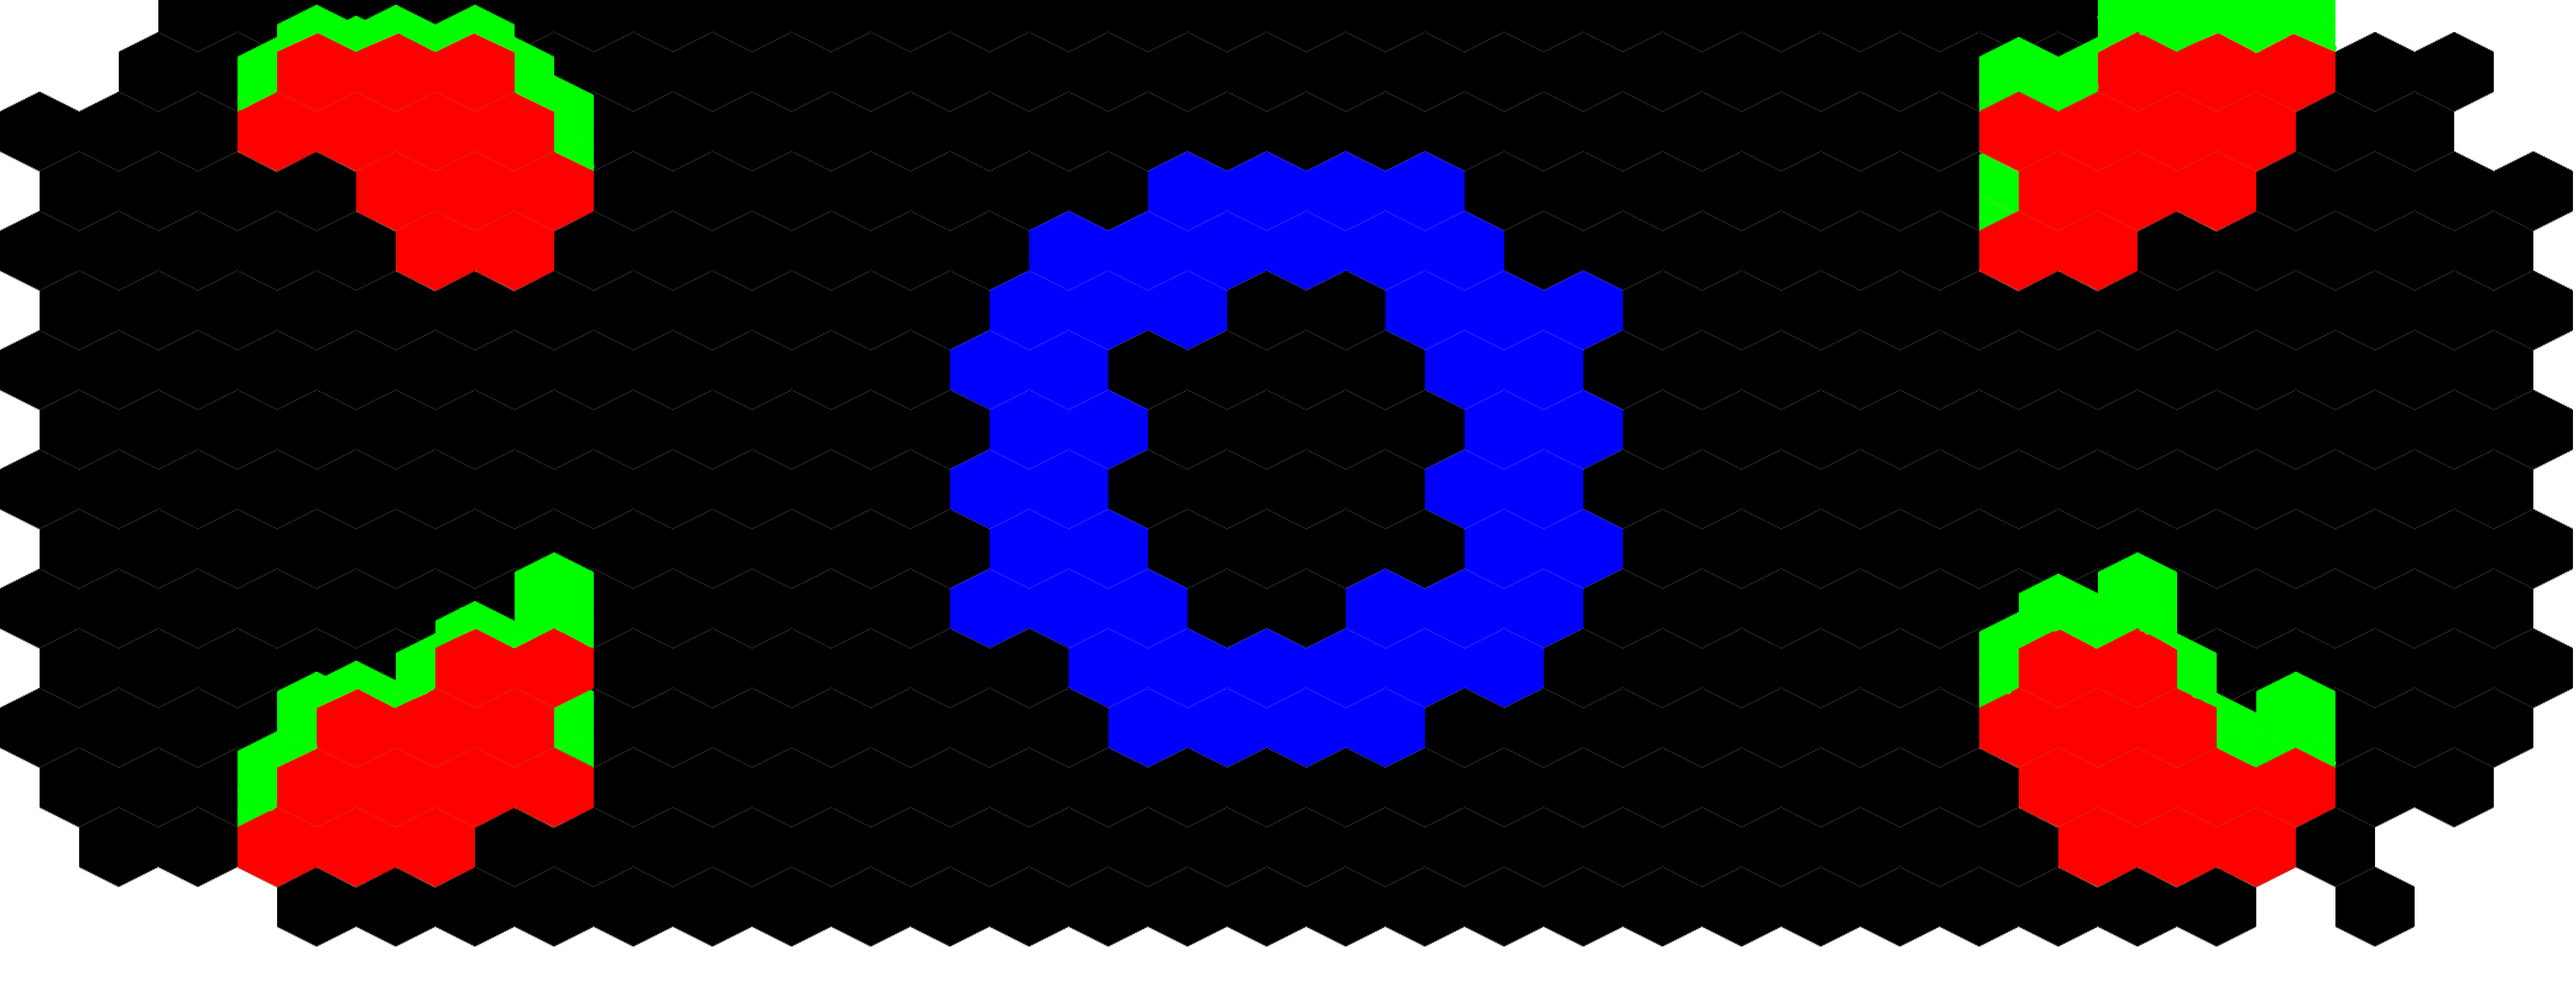
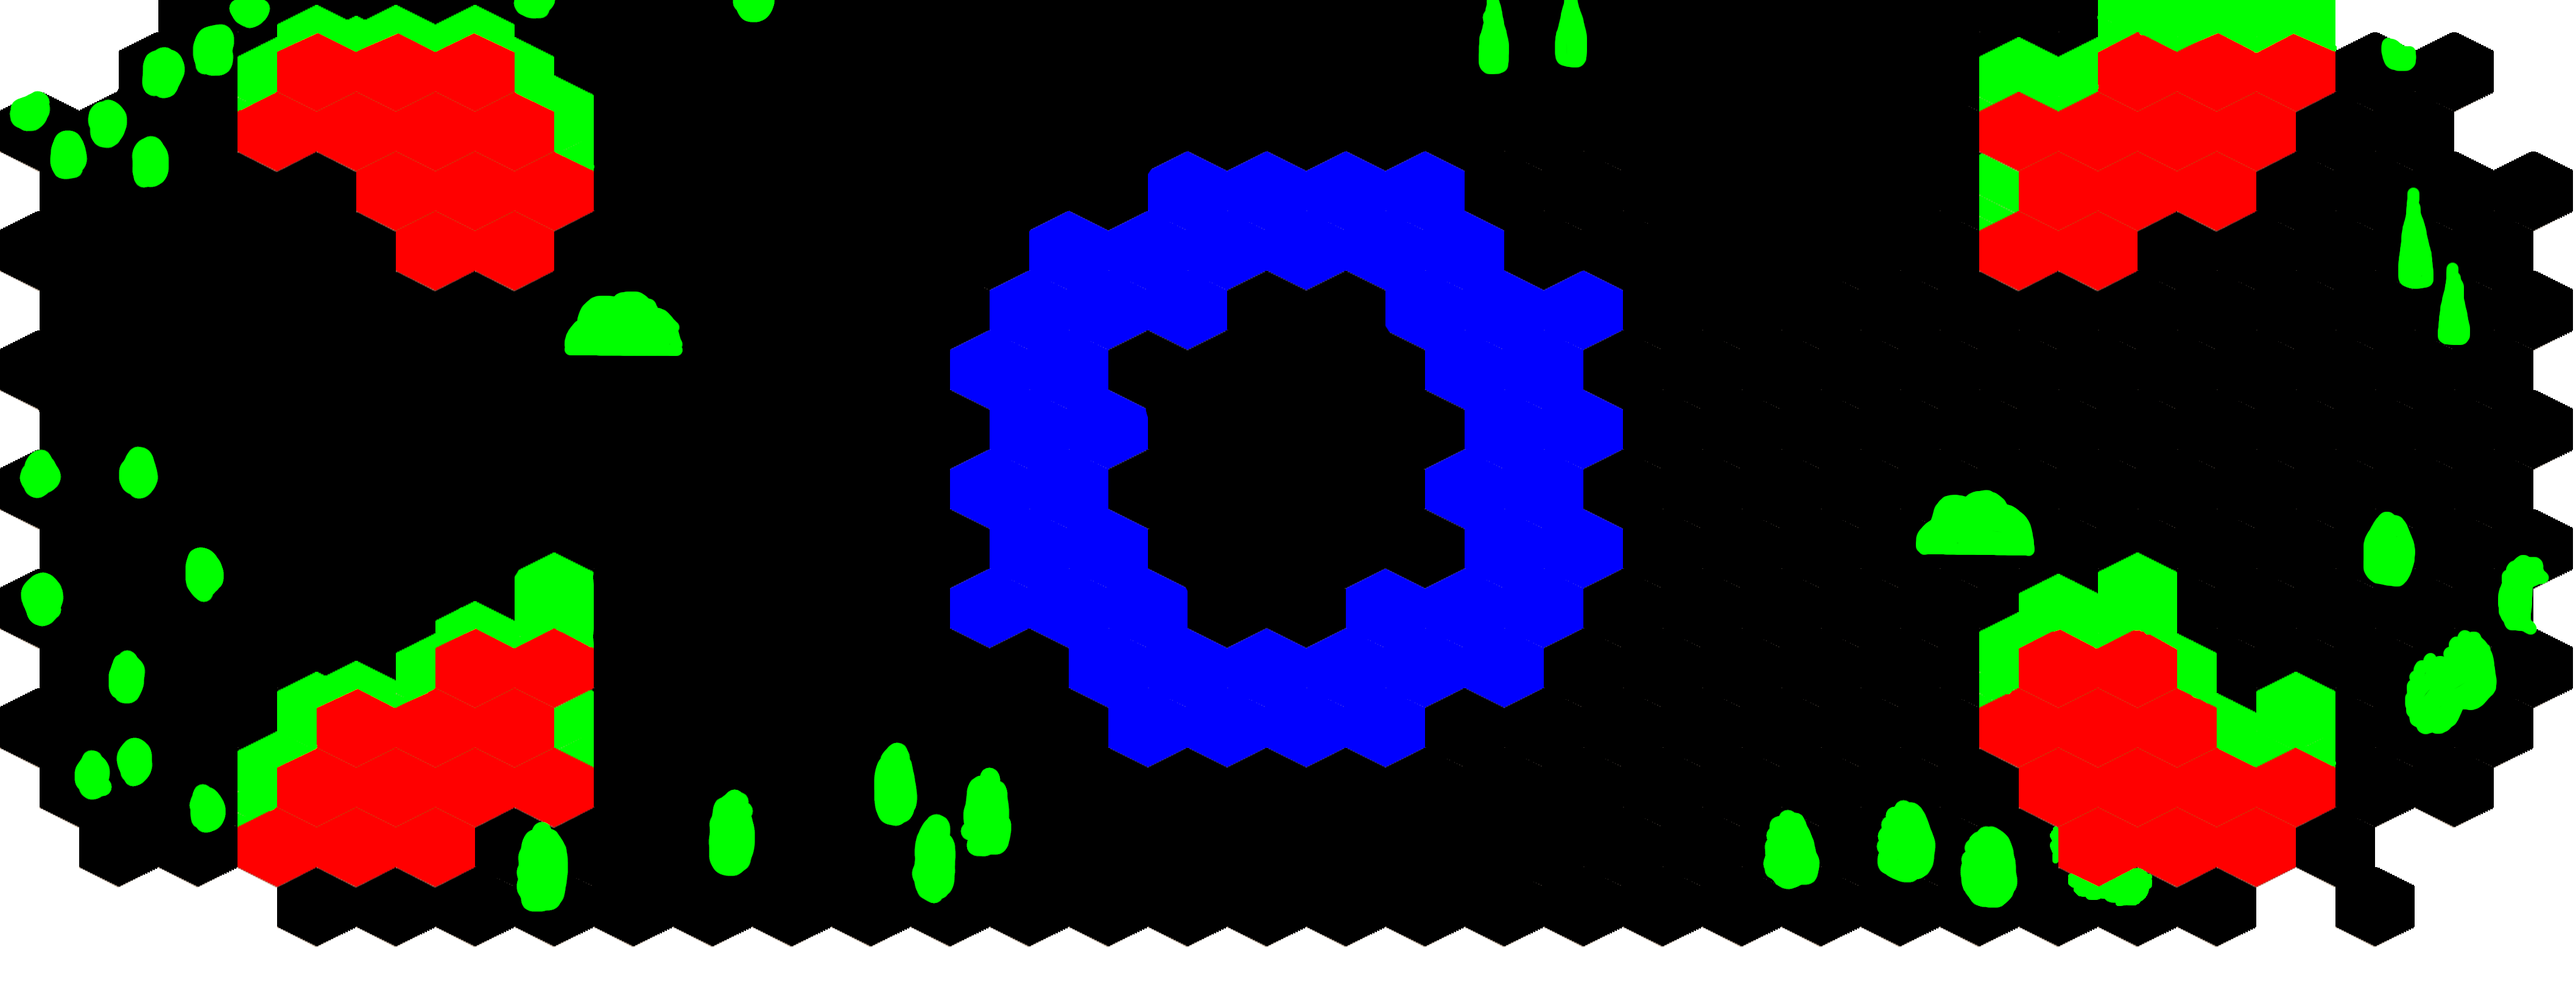
beta1.2

diff --git a/server/server.js b/server/server.js
@@ -24,6 +24,7 @@ spawnTowerList[3] = {x:4019,y:636,team:2};
 var bluescore = 0;
 var redscore = 0;
 
+var gameUpdateFunction;
 var gamestat = 1;         //遊戲狀態 0 尚未開始 1遊戲開始 2 遊戲結算等待重製
 var onlineCount = 0;      //遊戲人數
 var blueTeamCount = 0;    //藍隊人數
@@ -38,7 +39,7 @@ var skillindex = 0;       //系統紀錄SKILL列表長度用
 var effectindex = 0;      //系統紀錄EFFECT列表長度用
 var buildingindex = 0;      //系統紀錄building列表長度用
 var gametick = 0;         //遊戲時刻(每20MS加一)
-
+var gamestarting = false;
 //MP AND BP GET
 var beegen_count = {};
 beegen_count[1] = 0;
@@ -72,6 +73,11 @@ io.on('connection', (socket) => {
       try {
         oplist[socket.id] = false;
         onlineCount++;
+        if(onlineCount >= 4 && gamestarting == false){
+          gamestarting = true;
+          io.emit("msg", {message: '遊戲將在10秒後開始!',name: '世界之聲',});
+          setTimeout(function(){gameStart();},10000);
+        }
         logData['name'] = logData['name'].replace(/</g, "&lt;");
         logData['name'] = logData['name'].replace(/>/g, "&gt;");
         logData['name'] = logData['name'].replace(/"/g, "&quot;");
@@ -113,7 +119,10 @@ io.on('connection', (socket) => {
           if(gameStartingJoin){
             io.to(socket.id).emit("buildDataInt", buildinglist);
             io.to(socket.id).emit("playerDataUpdata", playerlist);
-            setTimeout(function(){io.to(socket.id).emit("gameStart");},500);
+            setTimeout(function(){
+              io.to(socket.id).emit("gameStart");
+              io.to(socket.id).emit("kdaDataGet", kdalist);//更新KDA版
+            },500);
             socket.join("GameRoom");
             io.to("GameRoom").emit("playerDataUpdata", playerlist);
           }else {
@@ -123,6 +132,7 @@ io.on('connection', (socket) => {
       } catch (e) {
         console.log('有些錯誤在login階段發生了!詳細訊息:'+e);
       }
+
     });
     /*遊戲開始前 加入紅藍隊伍*/
     socket.on("blueTeamJoin", () => {
@@ -606,6 +616,9 @@ function gameSystem() {
         io.to(id).emit("loseGame");
     }
     gamestat = 3;
+    setTimeout(function(){
+      gameRestart();
+    },15000);
   }else if(redscore >= winscore){
     for (let [id ,player] of Object.entries(playerlist)) {
       if(player['team'] == 2)
@@ -614,6 +627,9 @@ function gameSystem() {
         io.to(id).emit("loseGame");
     }
     gamestat = 3;
+    setTimeout(function(){
+      gameRestart();
+    },15000);
   }
   //佔領成功粒子特效
   for (var i = 1; i <= 4; i++) {
@@ -701,8 +717,8 @@ function gameSystem() {
   for (let [index ,build] of Object.entries(spawnTowerList)) {
     for (let [id ,player] of Object.entries(playerlist)) {
       if(player['team'] != build['team']){
-        if(colliderBoxCircle(player['x'],player['y'],64,128,build['x'],build['y'],600)){
-          shoot(build['x'],build['y'],player['x'],player['y'],build['team'],40);
+        if(colliderBoxCircle(player['x'],player['y'],64,128,build['x'],build['y'],700)){
+          shoot(build['x'],build['y'],player['x'],player['y'],build['team'],80);
         }
       }
     }
@@ -884,7 +900,7 @@ function commandTest(msg,id){
             break;
           case 'restart':
             if(oplist[id] == true){
-              io.emit("restartGame");
+              gameRestart();
             }else{
               io.to(id).emit("msg", {message: '你的權限無法使用該指令!',name: '世界之聲'});
             }
@@ -936,13 +952,68 @@ function shoot(bx,by,px,py,team,damage){
 }
 
 function gameStart(){
+  gamestarting = true;
   io.to("GameRoom").emit("playerCount",onlineCount);
   io.to("GameRoom").emit("gameStart");
   io.to("GameRoom").emit("kdaDataGet", kdalist);//更新KDA版
   gamestat = 2;
-  setInterval(gameUpdate,20);
+  gameUpdateFunction = setInterval(gameUpdate,20);
   console.log('遊戲開始');
 }//遊戲開始
+
+function gameRestart(){
+  io.to('GameRoom').emit("msg", {message: '世界將在1秒後重置!',name: '世界之聲',});
+  clearInterval(gameUpdateFunction);
+  //世界樹
+  gamestarting = false;
+  occupyTime = 0; // -5 = blue 5 = red
+  eoccupyTime = 0; // -5 = blue 5 = red
+  foccupyTime = {}; // -5 = blue 5 = red
+  foccupyTime[1] = 0; // -5 = blue 5 = red
+  foccupyTime[2] = 0; // -5 = blue 5 = red
+  foccupyTime[3] = 0; // -5 = blue 5 = red
+  foccupyTime[4] = 0; // -5 = blue 5 = red
+  foccupyTime[5] = 0; // -5 = blue 5 = red
+  foccupyTime[6] = 0; // -5 = blue 5 = red
+  foccupyTime[7] = 0; // -5 = blue 5 = red
+  foccupyTime[8] = 0; // -5 = blue 5 = red
+  spawnTowerList = {}; // -5 = blue 5 = red
+
+  bluescore = 0;
+  redscore = 0;
+
+  gamestat = 1;         //遊戲狀態 0 尚未開始 1遊戲開始 2 遊戲結算等待重製
+  onlineCount = 0;      //遊戲人數
+  blueTeamCount = 0;    //藍隊人數
+  redTeamCount = 0;     //紅隊人數
+  playerlist = {};      //玩家列表與詳細資料
+  kdalist = {};      //玩家擊殺死亡與助攻統計
+  oplist = {};
+  skillObject = {};     //技能物件列表與鄉系資料
+  effectlist = {};      //效果列表與詳細資料
+  buildinglist = {};      //建築列表與詳細資料
+  skillindex = 0;       //系統紀錄SKILL列表長度用
+  effectindex = 0;      //系統紀錄EFFECT列表長度用
+  buildingindex = 0;      //系統紀錄building列表長度用
+  gametick = 0;         //遊戲時刻(每20MS加一)
+
+  //MP AND BP GET
+  beegen_count = {};
+  beegen_count[1] = 0;
+  beegen_count[2] = 0;
+  bp1getTick = 0;
+  bp2getTick = 0;
+
+  flowergen_count = {};
+  flowergen_count[1] = 0;
+  flowergen_count[2] = 0;
+  mp1getTick = 0;
+  mp2getTick = 0;
+
+  setTimeout(function(){
+    io.emit("restartGame");
+  },1000);
+}
 
 app.get('/', (req, res) => {
     res.sendFile( __dirname + '/views/index.html');

diff --git a/server/views/scripts/newPlayer.js b/server/views/scripts/newPlayer.js
@@ -1,0 +1,94 @@
+
+function newPlayerTip() {
+  TipBG();
+  switch (newPlayerTipAnimation) {
+    case 0:
+      TipText('安安!歡迎來到DreeWar.IO\n輸入WSAD能進行前後左右移動!\n點擊右下next進入下一個新手教學');
+      break;
+    case 1:
+      TipText('非常好!請注意!!\n你無法直接穿透防禦型建築與山壁!');
+      break;
+    case 2:
+      TipText('滑鼠左鍵使用技能(注意左下角)');
+      break;
+    case 3:
+      TipText('技能會向你鼠標方向移動');
+      break;
+    case 4:
+      TipText('滾輪更改施放技能(注意左下角)');
+      break;
+    case 5:
+      TipText('你共會有四張卡牌\n使用後會隨機重新獲得一張牌');
+      break;
+    case 6:
+      TipText('目前有三種卡牌');
+      break;
+    case 7:
+      TipText('普通攻擊,技能牌組,建築牌組');
+      break;
+    case 8:
+      TipText('巧妙使用技能能使戰鬥中更具備優勢');
+      break;
+    case 9:
+      TipText('不過技能使用會消耗MP數值');
+      break;
+    case 10:
+      TipText('查看右下角你會看到你的[MP]\n那代表魔力剩餘\n每5秒才會回復一點請警慎使用');
+      break;
+    case 11:
+      TipText('建築牌組能強化我方增益\n加速MP與BP獲取');
+      break;
+    case 12:
+      TipText('不過建築使用會消耗BP數值');
+      break;
+    case 13:
+      TipText('查看右下角你會看到你的[BP]\n那代表魔力剩餘\n每15秒才會回復一點\n請警慎使用');
+      break;
+    case 14:
+      TipText('滑鼠右鍵能發布表情');
+      break;
+    case 15:
+      TipText('遊戲目標\n佔領位於地圖中央被河環繞的世界樹');
+      break;
+    case 16:
+      TipText('遊戲的目標是佔領世界樹\n佔領的一方能獲得每秒一分地加成\n先得到300分玩家得勝');
+      break;
+    case 17:
+      TipText('如果世界樹被敵方佔領\n你可以佔領世界樹旁的青蛙\n他能很快的攻擊佔領樹的敵方');
+      break;
+    case 18:
+      TipText('遊戲教學結束');
+      break;
+    default:
+  }
+}
+
+function TipBG(){
+  var temp_x = 10;
+  var temp_y = 80;
+  var img = document.getElementById('UIpanel');
+  ctx.drawImage(img,temp_x,temp_y,300,100);
+  var img = document.getElementById('wood_T');
+  ctx.drawImage(img,temp_x-4,temp_y-6,32,32);
+  var img = document.getElementById('wood_I');
+  ctx.drawImage(img,temp_x+28,temp_y-6,32,32);
+  var img = document.getElementById('wood_P');
+  ctx.drawImage(img,temp_x+60,temp_y-6,32,32);
+  var img = document.getElementById('UInext');
+  ctx.drawImage(img,temp_x+275,temp_y+86,51,28);
+  var img = document.getElementById('UIcross');
+  ctx.drawImage(img,temp_x+275,temp_y+6,18,18);
+}
+
+function TipText(msg) {
+    let tipmsg = msg.split("\n");
+    var temp_x = 22;
+    var temp_y = 122;
+    ctx.textAlign = "left";
+    ctx.textBaseline = "middle";
+    ctx.font = "18px Verdana";
+    ctx.fillStyle = "rgba(30,30,30,1)";
+    for (var i = 0; i < tipmsg.length; i++) {
+      ctx.fillText(tipmsg[i],temp_x,temp_y+18*i);
+    }
+}

diff --git a/server/views/scripts/Draw.js b/server/views/scripts/Draw.js
@@ -112,6 +112,9 @@ function draw() {
     emotionSelect();
   //Bossbar
   gameDisplay();
+  //新手教學
+  if(newPlayerTipAnimation < 19)
+    newPlayerTip();
   //人物list
   if(tabUse)
     tabInfoDisplay();
@@ -126,7 +129,7 @@ function draw() {
 
 function tabInfoDisplay() {
   try {
-    ctx.fillStyle = "rgba(0,0,0,180)";
+    ctx.fillStyle = "rgba(30,30,30,100)";
     ctx.fillRect(Window_width*0.1, Window_height*0.1, Window_width*0.8,Window_height*0.8)
     ctx.textAlign = "left";
     ctx.textBaseline = "middle";
@@ -693,16 +696,11 @@ function particleDisplay() {
           break;
         case 3:
           var img = document.getElementById('brickBrown');
-          var temp_mx = Math.sin(particle['x']) * particle['time']*0.1;
-          var temp_my = Math.sin(particle['y']) * particle['time']*0.1;
-          ctx.drawImage(img, particle['x'] - selfPlayer['x'] + (Window_width/2)-8+temp_mx,particle['y'] - selfPlayer['y'] + (Window_height/2)-8+temp_my,16,16);
-          temp_mx = Math.sin(particle['x'+0.6]) * particle['time']*0.1;
-          temp_my = Math.sin(particle['y'+0.6]) * particle['time']*0.1;
-          ctx.drawImage(img, particle['x'] - selfPlayer['x'] + (Window_width/2)-8+temp_mx,particle['y'] - selfPlayer['y'] + (Window_height/2)-8+temp_my,16,16);
-          temp_mx = Math.sin(particle['x'+1.2]) * particle['time']*0.1;
-          temp_my = Math.sin(particle['y'+1.2]) * particle['time']*0.1;
-          var img = document.getElementById('brickGrey');
-          ctx.drawImage(img, particle['x'] - selfPlayer['x'] + (Window_width/2)-8+temp_mx,particle['y'] - selfPlayer['y'] + (Window_height/2)-8+temp_my,16,16);
+          for (var i = 0; i < 10; i++) {
+            temp_mx = Math.sin(particle['x']+171.59*i) * particle['time']*0.12 + Math.random()*12;
+            temp_my = Math.sin(particle['y']+171.59*i) * particle['time']*0.12 + Math.random()*12;
+            ctx.drawImage(img, particle['x'] - selfPlayer['x'] + (Window_width/2)-8+temp_mx,particle['y'] - selfPlayer['y'] + (Window_height/2)-8+temp_my,16,16);
+          }
           break;
         case 4:
           var img = document.getElementById('hudPlayer_blue');

diff --git a/server/views/index.html b/server/views/index.html
@@ -359,11 +359,18 @@
     <img src="views/img/UI/wood_N.png" id="wood_3">
     <img src="views/img/UI/wood_E.png" id="wood_4">
     <img src="views/img/UI/wood_R.png" id="wood_5">
+    <img src="views/img/UI/wood_T.png" id="wood_T">
+    <img src="views/img/UI/wood_I.png" id="wood_I">
+    <img src="views/img/UI/wood_P.png" id="wood_P">
+
     <img src="views/img/UI/metal_L.png" id="metal_0">
     <img src="views/img/UI/metal_O.png" id="metal_1">
     <img src="views/img/UI/metal_S.png" id="metal_2">
     <img src="views/img/UI/metal_E.png" id="metal_3">
     <img src="views/img/UI/metal_R.png" id="metal_4">
+    <img src="views/img/UI/panel.png" id="UIpanel">
+    <img src="views/img/UI/next.png" id="UInext">
+    <img src="views/img/UI/cross.png" id="UIcross">
 
   </div>
   <div id="MusicList">
@@ -497,6 +504,7 @@
     var BuildVolume = 1.0;
 
     //
+    var newPlayerTipAnimation = 0;
     var winAnimation = 0;
     var loseAnimation = 0;
     var tabUse = false;
@@ -554,6 +562,7 @@
   <script src="scripts/jqueryrotate.js"></script>
   <script src="scripts/Carduse.js"></script>
   <script src="scripts/gpu.js"></script>
+  <script src="scripts/newPlayer.js"></script>
   <script src="scripts/jquery-ui/jquery-ui.js"></script>
 </body>
 </html>

diff --git a/server/views/scripts/Input.js b/server/views/scripts/Input.js
@@ -23,6 +23,7 @@ $( function() {
       {label: '/gamerule gameStartingJoin true/false'},
       {label: '/gameval set mpBasicRegVal'},
       {label: '/gameval set bpBasicRegVal'},
+      {label: '/gameval set winScore'},
       {label: '/gameval get bpBasicRegVal'},
       {label: '/gameval get mpBasicRegVal'},
       {label: '/gameval get winScore'},
@@ -77,7 +78,7 @@ document.onkeydown=function(event){
         }
         break;
       case 9:
-        tabUse = true;
+        //tabUse = true;
         break;
       case 69:
         if(gamestat == 2){
@@ -158,9 +159,18 @@ document.onmousedown=function(event){
   if (event.button==2)
     mouseRight = true;
   else{
-    if(gamestat == 2)
-      if(cardUseMode == 1)
+    if(gamestat == 2){
+      //tip next
+      if(mouse_x > 255 && mouse_x < 305 && mouse_y > 100 && mouse_y < 125){
+        newPlayerTipAnimation += 1;
+        musicPlay('Music_mouserelease',UIVolume);
+      }else if(mouse_x > 255 && mouse_x < 273 && mouse_y > 20 && mouse_y < 38){
+        newPlayerTipAnimation = 19;
+        musicPlay('Music_rollover',UIVolume);
+      }else if(cardUseMode == 1){//使用
         skillCardUse();
+      }
+    }
   }
 };
 

diff --git a/server/views/index.css b/server/views/index.css
@@ -1,6 +1,17 @@
 * { padding: 0; margin: 0; }
 canvas { background: #3C3C3C; display: block; margin: 0 auto; }
 
+/*
+@font-face {
+  font-family: jffont;
+  src: url(http://example.com/fonts/Gentium.woff);
+}
+
+p { font-family: jffont, serif; }
+div { font-family: jffont, serif; }
+input { font-family: jffont, serif; }
+*/
+
 #message-box {
     width: 97%;
     display: inline-block;
@@ -35,7 +46,7 @@ canvas { background: #3C3C3C; display: block; margin: 0 auto; }
 .z-index10{z-index: 10;}
 .magiccard{overflow:hidden;}
 .magiccard img{transform:translate(0px,0px)scale(1.0,1.0);transition: all 0.2s ease-out;z-index: 0;}
-.magiccard img:hover{transform:translate(150px,-200px)scale(4.0,4.0);z-index: 10;}
+.magiccard img:hover{transform:translate(25px,-50px)scale(1.5,1.5);z-index: 10;}
 .magiccard {overflow:visible;width: 6rem;}
 
 .card0{
